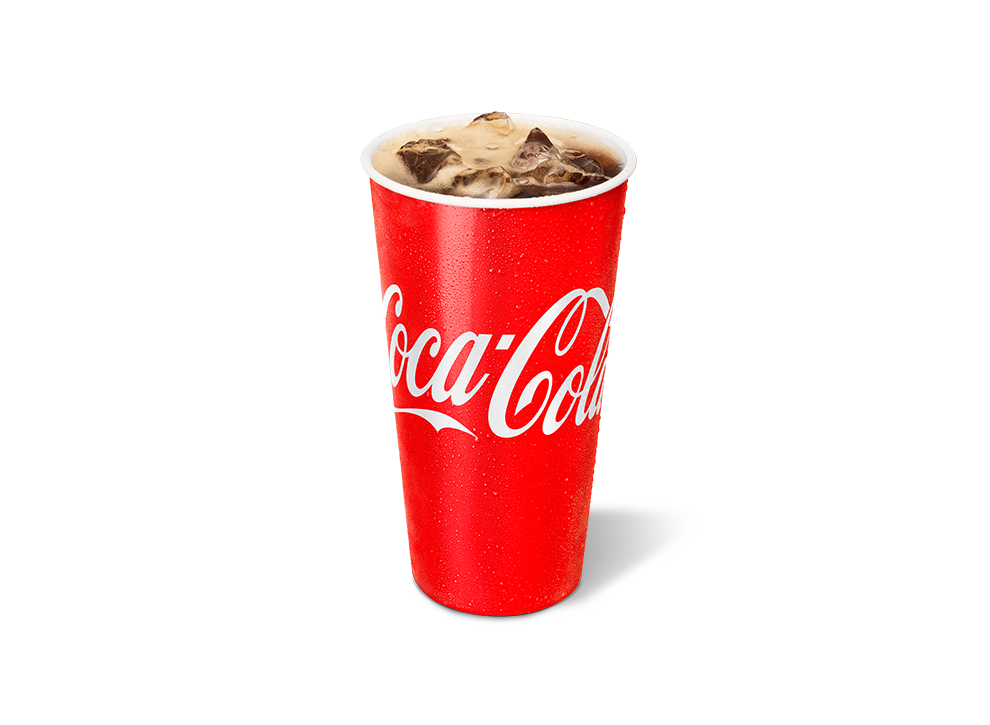
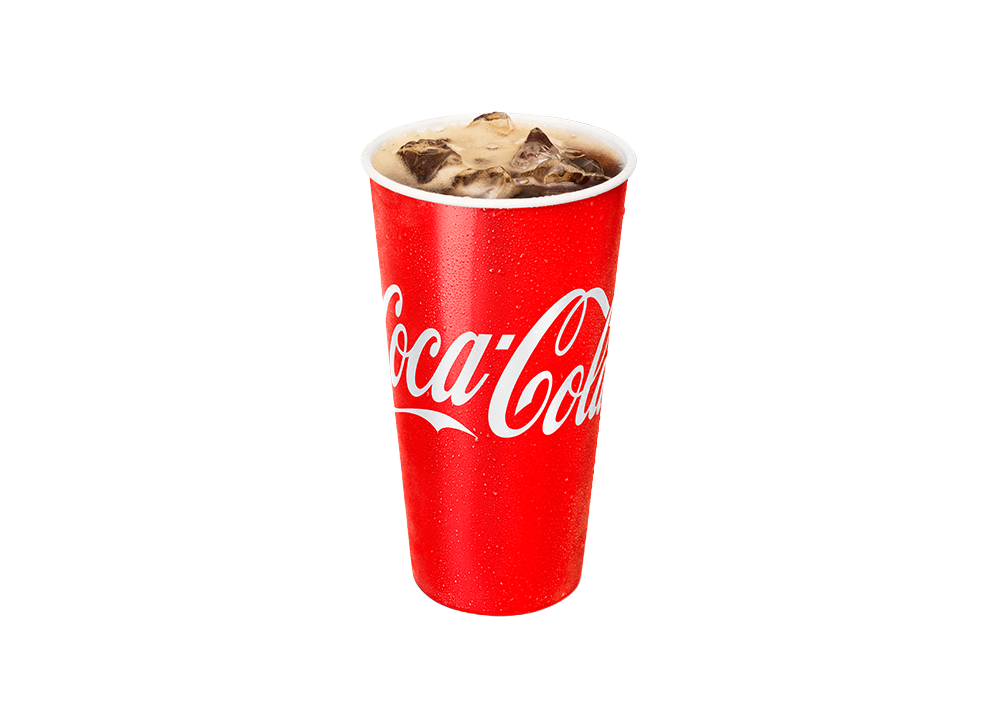
cambiadas imagenes de jpg a png, tambien en seeders products

Changed region(s): [[0.4848, 0.6979, 0.6667, 0.88], [0.4242, 0.8193, 0.4848, 0.8497]]

diff --git a/site/src/database/seeders/20211118155733-create-Products.js b/site/src/database/seeders/20211118155733-create-Products.js
@@ -3,7 +3,7 @@
 let products =  [
   {
     "title": "El original",
-    "images": "/1.jpg",
+    "images": "/1.png",
     "description": "¡El original Tacopado! Una tortilla de maíz crujiente.",
     "price": 200,
     "calories": 170,
@@ -22,7 +22,7 @@ let products =  [
 },
 {
     "title": "Taco Suave",
-    "images": "/2.jpg",
+    "images": "/2.png",
     "description": "Probá el lado más suave de Tacopado.",
     "price": 220,
     "calories": 180,
@@ -41,7 +41,7 @@ let products =  [
  }
 , {
     "title": "Tacopante",
-    "images": "/3.jpg",
+    "images": "/3.png",
     "description": "Esta exclusiva de Tacopado lleva los tacos a un nivel completamente nuevo. Cambiamos la cáscara con pan de pita tibio y esponjoso, y lo rellenamos con frijoles refritos cocidos a fuego lento. Con relleno a elección: carne picada fresca o carne de pollo. Y con la infaltable lechuga fresca, tomates jugosos y coronandolo con queso cheddar rallado.",
     "price": 500,
     "calories": 530,
@@ -60,7 +60,7 @@ let products =  [
 },
 {
     "title": "¡Grande, taco!",
-    "images": "/4.jpg",
+    "images": "/4.png",
     "description": "Un camino más grande a lo copado. Un taco nunca es suficiente, así que empacamos el doble de sabor y frescura en esta crujiente tortilla de maíz para agarrar con las dos manos. Disfrutá el doble de carne picada fresca o carne de pollo. Además tiene una mezcla rallada de queso cheddar y picantes, con lechuga fresca, tomates jugosos y una cucharada de crema agria fresca.",
     "price": 580,
     "calories": 360,
@@ -79,7 +79,7 @@ let products =  [
 },
   {
         "title": "Copado Burrito",
-      "images": "/5.jpg",
+      "images": "/5.png",
         "description": "Envolvé tus papilas gustativas alrededor de 5 capas de todo lo copado. Comenzamos con frijoles refritos cocidos a fuego lento y una capa de sabroso arroz mexicano, salsa de chile, una mezcla rallada de queso cheddar y picante. A tu elección el relleno de carne picada o carne de pollo.",
         "price": 220,
       "calories": 660,
@@ -98,7 +98,7 @@ let products =  [
   },
   {
         "title": "El gran burrito gran",
-      "images": "/6.jpg",
+      "images": "/6.png",
         "description": "Un burrito tan grande que no le cabía otro nombre. Actualizamos nuestra tortilla de harina fresca a un tamaño que puede contener rellenos adicionales. Elegí rellenarlo con carne picada o pollo, para ,ezcñarse em caás de salsa de chile picante, hebras de queso cheddar y picantes, lechuga fresca, tomates jugosos y crema agria fresca para hacer este burrito famoso de Tacopado.",
         "price": 550,
       "calories": 650,
@@ -118,7 +118,7 @@ let products =  [
   },
   {
         "title": "Burrito de carne",
-      "images": "/7.jpg",
+      "images": "/7.png",
         "description": "Poné en tus manos este burrito 100% carne vacuna. Disfruta de la carne molida, perfectamente sazonada, combinada con una mezcla de queso cheddar, picantes y salsa de chile. Todo envuelto en una tortilla de harina de trigo y tibia",
         "price": 190,
       "calories": 470,
@@ -137,7 +137,7 @@ let products =  [
   },
   {
         "title": "Burrito Mr. Bean",
-      "images": "/8.jpg",
+      "images": "/8.png",
         "description": "Rodado a la perfección. Disfrutá de frijoles refritos cocidos a fuego lento, combinados con una mezcla derretida de queso cheddar, picante y salsa de chile, todo envuelto en una tortilla de harina suave y tibia.",
       "price": 180,
       "calories": 540,
@@ -156,7 +156,7 @@ let products =  [
   },
   {
         "title": "Burrito combo",
-      "images": "/9.jpg",
+      "images": "/9.png",
         "description": "Rodado a la perfección. Disfrutá de frijoles refritos cocidos a fuego lento y carne picada perfectamente sazonada, combinados con una mezcla derretida de queso cheddar, picante y salsa de chile, todo envuelto en una tortilla de harina suave y tibia.",
         "price": 230,
       "calories": 510,
@@ -175,7 +175,7 @@ let products =  [
   },
   {
          "title": "Burrito Francisco",
-      "images": "/10.jpg",
+      "images": "/10.png",
         "description": "Vos decís Papa, nosotros decimos burrito. Disfruta de croquetas de patata crujiente en capas con carne picada. Todo acompañado de queso derretido, lechuga fresca rallada y crema agria enrollada en una tortilla de harina suave y tibia.",
         "price": 200,
       "calories": 310,
@@ -194,7 +194,7 @@ let products =  [
   },
   {
          "title": "Quesadilla de ternera",
-      "images": "/11.jpg",
+      "images": "/11.png",
         "description": "No hay mejor manera de disfrutar tu elección de relleno de carne picada sazonada o cortada a cuchillo, con una mezcla de quesos cheddar y picantes, doblado en una tortilla de harina tibia y tostado a la perfección.",
         "price": 250,
       "calories": 829,
@@ -213,7 +213,7 @@ let products =  [
   },
   {
          "title": "Quesadilla de pollo",
-      "images": "/12.jpg",
+      "images": "/12.png",
         "description": "No hay mejor manera de disfrutar pollo con una mezcla de quesos cheddar y picantes, doblado en una tortilla de harina tibia y tostado a la perfección.",
         "price": 220,
       "calories": 800,
@@ -232,7 +232,7 @@ let products =  [
   },
   {
          "title": "Quesadilla de queso",
-      "images": "/13.jpg",
+      "images": "/13.png",
         "description": "No hay mejor manera de disfrutar una mezcla de quesos cheddar y picantes, doblado en una tortilla de harina tibia y tostado a la perfección.",
         "price": 200,
       "calories": 720,
@@ -251,7 +251,7 @@ let products =  [
   },
   {
          "title": "Mexicanísimo",
-      "images": "/14.jpg",
+      "images": "/14.png",
         "description": "Tené esa dosis de papas que te merecés y salsas de este clásico de Tacopado. Nuestros chips de tortilla crujiente se combinan con guacamole hecho con paltas frescas, queso y frijoles refritos cocidos a fuego lento ¿Mencionamos que estas creaciones vienen en sus propios tazones de tortilla de maíz?",
         "price": 170,
       "calories": 780,
@@ -270,7 +270,7 @@ let products =  [
   },
   {
          "title": "Mucho Nacho",
-      "images": "/15.jpg",
+      "images": "/15.png",
         "description": "Porque nunca son suficientes nachos, mejoramos este clásico mexicano con más de lo que amás: chips de tortilla recién hechos, acompañados de carne picada o carne de pollo sazonada. Además tiene salsa de chile picante, frijoles refritos a fuego lento, queso derretido, tomates jugosos y una cucharada de crema agria fría.",
         "price": 250,
       "calories":   930  ,
@@ -289,7 +289,7 @@ let products =  [
   },
   {
          "title": "Papas con queso",
-      "images": "/16.jpg",
+      "images": "/16.png",
         "description": "Amor a primer bocado. Un clásico mexicano hecho al estilo Tacopado. Nuestros chips de tortilla crujiente de trigo recién fritos y combinados con una salsa melty de queso y pimientos. Este dúo viene en tamaño regular y grande, según el hambre que tengas",
         "price":   190,
       "calories":   300,
@@ -308,7 +308,7 @@ let products =  [
   },
   {
          "title": "GuacaChips",
-      "images": "/17.jpg",
+      "images": "/17.png",
         "description": "Un clásico mexicano hecho al estilo Tacopado. Nuestros chips de tortilla crujientes se combinan con guacamole fresco hecho con palta perfectamente madura, tomates y cebollas cortados en cubitos y una mezcla de nuestras especias exclusivas. Este dúo viene en tamaño regular y grande, según el tamaño de tu antojo",
         "price":   280,
       "calories":   370,
@@ -327,7 +327,7 @@ let products =  [
   },
   {
          "title": "Fuente de sabores",
-      "images": "/18.jpg",
+      "images": "/18.png",
         "description": "Una fuente para acabar con tu hambre. Con una chilada de pollo o carne tibia bañada en sala de chile picante y queso derretido, un taco de carne crujiente y un Tacopante de carne suave. Esta fuente se completa con frijoles refritos a fuego lento, un acompañamiento de queso derretido, arroz mexicano sazonado y tortilla crujiente de papas fritas, crema agria fresca y una bola de guacamole recién hecho.",
         "price":   1290,
       "calories":   1790,
@@ -346,7 +346,7 @@ let products =  [
   },
   {
          "title": "La taco-bandeja",
-      "images": "/19.jpg",
+      "images": "/19.png",
       "description": "¿No podes elegir entre tacos crujientes y suaves? Con esta fuente podes tener ambos. Disfruta de dos tipos de taco, rellenos a tu elección: carne ligeramente sazonada o de carne de pollo. Disfruta de una variedad de acompañamientos: sabrozoz arroz mexicano, frijoles refritos a fuego lento, chips de tortilla crujientes, crema agria fresca y guacamoles recién hecho.",
       "price": 1300,
       "calories": 1050,
@@ -365,7 +365,7 @@ let products =  [
   },
   {
          "title": "Fuente Tacopada",
-      "images": "/20.jpg",
+      "images": "/20.png",
       "description": "Combina texturas crujientes y suabes con nuestro taco más grande de carne o pollo tibio. Disfrutá de un montón de arroz mexicano sazonado, frijoles refritos a fuego lento y chips de tortilla frescos a un lado, cubierto con crema agria fresca y guacamole recién hecho",
       "price": 2000,
       "calories": 1520,
@@ -384,7 +384,7 @@ let products =  [
   },
   {
          "title": "Fuente Chilacopada",
-      "images": "/21.jpg",
+      "images": "/21.png",
         "description": "Disfruta de dos chiladas empaquetadas con nuestra carne molida fresca y sazonada o carne de pollo, envuelto en una tortilla de harina tibia y bañada en salsa de chile picante con queso derretido caliente. Estos favoritos de Tacopado se combinan con un sabroso arroz mexicano, frijoles refritos hervidos a fuego lento y muchos chips de tortilla crujientes. Plus? una cucharada de crema agria fresca y una bola de guacamole fresco como acompañamiento.",
         "price": 1600,
       "calories": 1270,
@@ -403,7 +403,7 @@ let products =  [
   },
   {
          "title": "Mega ensalada en taco",
-      "images": "/22.jpg",
+      "images": "/22.png",
         "description": "Una ensalada crujiente, de sabor crujiente. Esta ensalada de taco tiene mucho sabor en un tazón de tortilla de trigo recién frito. Disfrutala con carne fresca o carne blanca de pollo. Acunada en un colchol de lechuga crujiente rallada y tomates cortados en cubitos. Terminado con queso cheddar rallado, guacamole recién hecho y una cucharada de crema agria fresca, perfecta como aderezo para ensalada o como salsa para este tazón crujiente e irresistible.",
         "price": 590,
       "calories": 980,
@@ -422,7 +422,7 @@ let products =  [
   },
   {
          "title": "Nacho ensalada",
-      "images": "/23.jpg",
+      "images": "/23.png",
         "description": "Una ensalada a la mexicana. Disfruta de una variedad de chips de tortilla crujientes hechos en casa, cubiertos con salsa de chile picante, queso derretido y pollo o carne a tu elección. Trae lechuga fresca, jugosos tomates y queso cheddar rallado que completan esta combinación perfecta de clásicos de Tacopado.",
         "price": 630,
       "calories": 420,
@@ -441,7 +441,7 @@ let products =  [
   },
   {
          "title": "Salsa de frijoles picante",
-      "images": "/24.jpg",
+      "images": "/24.png",
       "description": "Esta salsa cálida incluye frijoles refritos hervidos a fuego lento, salsa de chile picante y queso cheddar pegajoso, llenador y rico.",
       "price": 70,
       "calories": 282,
@@ -460,7 +460,7 @@ let products =  [
   },
   {
          "title": "Arroz mexicano",
-      "images": "/25.jpg",
+      "images": "/25.png",
       "description": "Granos llenos de sabor. El arroz se potencia con muchas especias sabrosas y toques de cebolla y pimiento.",
       "price": 80,
       "calories": 220,
@@ -480,7 +480,7 @@ let products =  [
   },
   {
       "title": "Guacamole",
-      "images": "/26.jpg",
+      "images": "/26.png",
       "description": "El dip favorito de todos. Nuestro guacamole fresco esta elaborado con paltas perfectamente maduras, tomates jugosos, cebollas picadas, y una mezcla de nuestras especias exclusivas.",
       "price": 120,
       "calories": 160,
@@ -499,7 +499,7 @@ let products =  [
   },
   {
          "title": "Queso derretido",
-      "images": "/27.jpg",
+      "images": "/27.png",
       "description": "Tan copado que se derrite en tu boca. Nuestro queso derretido esta hecho con la combinación perfecta de pimientos picantes y sabroso queso.",
       "price": 80,
       "calories": 100,
@@ -518,7 +518,7 @@ let products =  [
   },
   {
          "title": "Chips de canela",
-      "images": "/28.jpg",
+      "images": "/28.png",
       "description": "Canela y azucar crujiente ¡Para que los amantes de los chips salten de alegría! Tu bocadillo favorito llegó en forma de postre. Nuestros chips están recién fritos y cargados con una mezcla de canela y azucar que le encantará a tu paladar.",
       "price": 120,
       "calories": 360,
@@ -537,7 +537,7 @@ let products =  [
   },
   {
          "title": "Churros",
-      "images": "/29.jpg",
+      "images": "/29.png",
       "description": "Pequeño dulce, sabor pleno. Este amado dulce por todos viene en tamaño de un bocado. Recién fritos y espolvoreados con canela y azúcar para crear un sabor dulce, cálido y acogedor. Estos pedazos del cielo son fáciles de compartir... o de disfrutar en por tu cuenta.",
       "price": 130,
       "calories": 340,
@@ -575,7 +575,7 @@ let products =  [
   },
   {
          "title": "Sprite",
-      "images": "/31.jpg",
+      "images": "/31.png",
       "description": "Algo fresco para tanto picor. Refrescate con una sprite recién sacada de la heladera para largar ese AHHHHHHH desde el primer sorbo, al último trago.",
       "price": 200,
       "calories": 150,
@@ -613,7 +613,7 @@ let products =  [
   },
   {
       "title": "Jugo de Lima y Mango",
-      "images": "/33.jpg",
+      "images": "/33.png",
       "description": "Algo fresco para tanto picor. Refrescate con jugo de calidad recién salido de la heladera para largar ese AHHHHHHH desde el primer sorbo, al último trago.",
       "price": 150,
       "calories": 100,
@@ -632,7 +632,7 @@ let products =  [
   },
   {
       "title": "Jugo de Lima y Frambuesa",
-      "images": "/34.jpg",
+      "images": "/34.png",
       "description": "Algo fresco para tanto picor. Refrescate con jugo de calidad recién salido de la heladera para largar ese AHHHHHHH desde el primer sorbo, al último trago.",
       "price": 150,
       "calories": 100,
@@ -651,7 +651,7 @@ let products =  [
   },
   {
       "title": "Clásica limonada",
-      "images": "/35.jpg",
+      "images": "/35.png",
       "description": "Algo fresco para tanto picor. Refrescate con jugo de calidad recién salido de la heladera para largar ese AHHHHHHH desde el primer sorbo, al último trago.",
       "price": 150,
       "calories": 100,
@@ -670,7 +670,7 @@ let products =  [
   },
   {
       "title": "Agua",
-      "images": "/36.jpg",
+      "images": "/36.png",
       "description": "Algo fresco para tanto picor. Refrescate con agua fresca para largar ese AHHHHHHH desde el primer sorbo, al último trago.",
       "price": 150,
       "calories": 0,
